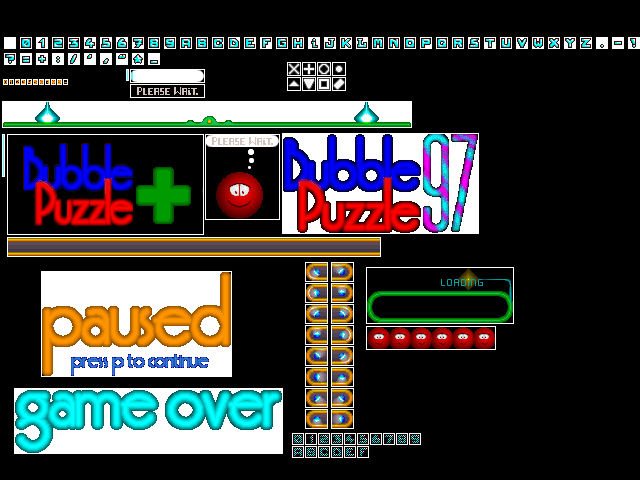
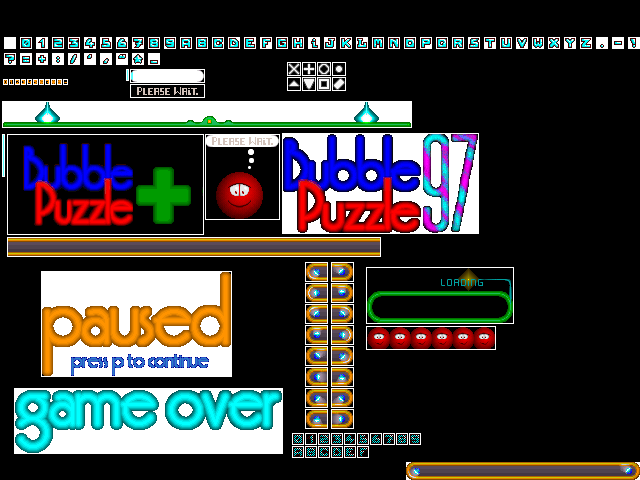
add player name input to game over screen

Changed region(s): [[0.625, 0.9375, 1.0, 1.0]]

diff --git a/bubble_pop/src/GameOverState.cpp b/bubble_pop/src/GameOverState.cpp
@@ -18,14 +18,18 @@ Copyright 2019 Matt Marchant
 
 #include "GameOverState.hpp"
 #include "IniParse.hpp"
+#include "GameConsts.hpp"
+#include "CommandID.hpp"
 
 #include <xyginext/ecs/components/Sprite.hpp>
 #include <xyginext/ecs/components/BitmapText.hpp>
 #include <xyginext/ecs/components/Transform.hpp>
 #include <xyginext/ecs/components/Drawable.hpp>
 #include <xyginext/ecs/components/Camera.hpp>
+#include <xyginext/ecs/components/CommandTarget.hpp>
 
 #include <xyginext/ecs/systems/SpriteSystem.hpp>
+#include <xyginext/ecs/systems/CommandSystem.hpp>
 #include <xyginext/ecs/systems/BitmapTextSystem.hpp>
 #include <xyginext/ecs/systems/RenderSystem.hpp>
 
@@ -47,7 +51,8 @@ namespace
         "Eddy Whirlpool",
         "Buns McFarlane",
         "Enty Hannah",
-        "Jeff Grapes"
+        "Jeff Grapes",
+        "LZ Cook"
     };
 }
 
@@ -79,6 +84,13 @@ bool GameOverState::handleEvent(const sf::Event& evt)
             switch (evt.key.code)
             {
             default: break;
+            case sf::Keyboard::BackSpace:
+                if (!m_playerName.empty())
+                {
+                    m_playerName.pop_back();
+                    updatePlayerString();
+                }
+                break;
             case sf::Keyboard::Return:
 
                 if (m_playerName.empty())
@@ -112,7 +124,14 @@ bool GameOverState::handleEvent(const sf::Event& evt)
         }
         else if (evt.type == sf::Event::TextEntered)
         {
-            //TODO enter name into high score string
+            //enter name into high score string - bitmap text is ASCII only so...
+            if (evt.text.unicode > 31
+                && evt.text.unicode < 127
+                && m_playerName.size() < Const::MaxNameChar)
+            {
+                m_playerName += static_cast<char>(evt.text.unicode);
+                updatePlayerString();
+            }
         }
     }
 
@@ -142,6 +161,7 @@ void GameOverState::draw()
 void GameOverState::build()
 {
     auto& mb = getContext().appInstance.getMessageBus();
+    m_scene.addSystem<xy::CommandSystem>(mb);
     m_scene.addSystem<xy::SpriteSystem>(mb);
     m_scene.addSystem<xy::BitmapTextSystem>(mb);
     m_scene.addSystem<xy::RenderSystem>(mb);
@@ -158,13 +178,58 @@ void GameOverState::build()
     auto& font = m_sharedData.resources.get<xy::BitmapFont>(m_sharedData.fontID);
     entity = m_scene.createEntity();
     entity.addComponent<xy::Transform>().setPosition(xy::DefaultSceneSize / 2.f);
-    entity.getComponent<xy::Transform>().move(0.f, bounds.height * 4.f);
+    entity.getComponent<xy::Transform>().move(0.f, 260.f);
     entity.getComponent<xy::Transform>().setScale(2.f, 2.f);
-
     entity.addComponent<xy::Drawable>();
     entity.addComponent<xy::BitmapText>(font).setString("Press Enter To Continue");
     bounds = xy::BitmapText::getLocalBounds(entity);
     entity.getComponent<xy::Transform>().setOrigin(bounds.width / 2.f, bounds.height / 2.f);
 
-    //TODO show high scores input
+    //show high scores input
+    if (m_sharedData.score >= m_sharedData.highScores.back().second)
+    {
+        //background
+        entity = m_scene.createEntity();
+        entity.addComponent<xy::Drawable>().setDepth(-10);
+        entity.addComponent<xy::Sprite>() = m_sharedData.sprites[SpriteID::NameInput];
+        auto bounds = entity.getComponent<xy::Sprite>().getTextureBounds();
+        entity.addComponent<xy::Transform>().setOrigin(bounds.width / 2.f, bounds.height / 2.f);
+        entity.getComponent<xy::Transform>().setPosition(xy::DefaultSceneSize / 2.f);
+        entity.getComponent<xy::Transform>().move(0.f, bounds.height * 2.f);
+        entity.getComponent<xy::Transform>().setScale(2.f, 2.f);
+        auto boxPos = entity.getComponent<xy::Transform>().getPosition();
+
+        //header
+        entity = m_scene.createEntity();
+        entity.addComponent<xy::Transform>().setPosition(xy::DefaultSceneSize / 2.f);
+        entity.getComponent<xy::Transform>().move(0.f, -bounds.height * 2.2f);
+        entity.getComponent<xy::Transform>().setScale(2.f, 2.f);
+        entity.addComponent<xy::Drawable>();
+        entity.addComponent<xy::BitmapText>(font).setString("Enter Your Name");
+        bounds = xy::BitmapText::getLocalBounds(entity);
+        entity.getComponent<xy::Transform>().setOrigin(bounds.width / 2.f, bounds.height / 2.f);
+
+        //input text
+        entity = m_scene.createEntity();
+        entity.addComponent<xy::Transform>().setPosition(boxPos);
+        entity.getComponent<xy::Transform>().setScale(2.f, 2.f);
+        entity.addComponent<xy::Drawable>();
+        entity.addComponent<xy::BitmapText>(font);// .setString("Sarah Connor");
+        entity.addComponent<xy::CommandTarget>().ID = CommandID::ScoreInput;
+        bounds = xy::BitmapText::getLocalBounds(entity);
+        entity.getComponent<xy::Transform>().setOrigin(bounds.width / 2.f, bounds.height / 2.f);
+    }
+}
+
+void GameOverState::updatePlayerString()
+{
+    xy::Command cmd;
+    cmd.targetFlags = CommandID::ScoreInput;
+    cmd.action = [&](xy::Entity e, float)
+    {
+        e.getComponent<xy::BitmapText>().setString(m_playerName);
+        auto bounds = xy::BitmapText::getLocalBounds(e);
+        e.getComponent<xy::Transform>().setOrigin(bounds.width / 2.f, bounds.height / 2.f);
+    };
+    m_scene.getSystem<xy::CommandSystem>().sendCommand(cmd);
 }

diff --git a/bubble_pop/src/EntryPoint.cpp b/bubble_pop/src/EntryPoint.cpp
@@ -53,6 +53,7 @@ int begin(xy::StateStack* ss, SharedStateData* sharedData)
     sd.sprites[SpriteID::Pause] = spriteSheet.getSprite("paused");
     sd.sprites[SpriteID::Title] = spriteSheet.getSprite("title");
     sd.sprites[SpriteID::TopBar] = spriteSheet.getSprite("top_bar");
+    sd.sprites[SpriteID::NameInput] = spriteSheet.getSprite("name_box");
 
     sd.fontID = sd.resources.load<xy::BitmapFont>("assets/images/bmp_font.png");
 

diff --git a/bubble_pop/src/MainState.cpp b/bubble_pop/src/MainState.cpp
@@ -83,7 +83,7 @@ MainState::MainState(xy::StateStack& ss, xy::State::Context ctx, SharedData& sd)
     cmd.targetFlags = CommandID::ScoreString; //doesn't matter, it just has to exist
     cmd.action = [&](xy::Entity, float) 
     {
-        requestStackPush(StateID::GameOver); 
+        requestStackPush(StateID::Attract); 
     };
     m_scene.getSystem<xy::CommandSystem>().sendCommand(cmd);
 }

diff --git a/bubble_pop/include/CommandID.hpp b/bubble_pop/include/CommandID.hpp
@@ -27,5 +27,6 @@ namespace CommandID
         ScoreString = 0x04,
         TitleTextA = 0x08,
         TitleTextB = 0x10,
+        ScoreInput = 0x20
     };
 }

diff --git a/bubble_pop/include/ResourceIDs.hpp b/bubble_pop/include/ResourceIDs.hpp
@@ -33,7 +33,7 @@ namespace SpriteID
     enum
     {
         Title, Pause, TopBar,
-        GameOver,
+        GameOver, NameInput,
 
         Count
     };

diff --git a/bubble_pop/include/GameOverState.hpp b/bubble_pop/include/GameOverState.hpp
@@ -45,4 +45,5 @@ private:
     std::string m_playerName;
 
     void build();
+    void updatePlayerString();
 };

diff --git a/bubble_pop/readme.md b/bubble_pop/readme.md
@@ -2,6 +2,8 @@
 
 One of the earliest PC games I remember playing as a teenager was Bubble Puzzle 97, a freeware puzzle-bobble style clone. I recently rediscovered the title which, unfortunately, doesn't work on modern computers as it was written for Windows 95 using directX 3. This repository attempts to recreate the original game, using the assets distributed with the original. This is purely for nostaligia's sake... while this source code is released under the apache license because it is written from scratch, the assets retain the original license (below) and MUST NOT be distributed for commericial purposes. Of course, as this is an open source project, you may feel free to replace all the resources (including the level designs!) with your own.
 
+Oh and please don't hold me culpable for the ridiculous difficulty of some levels - I didn't make them! :D
+
 #### Original readme
 
    __________________
